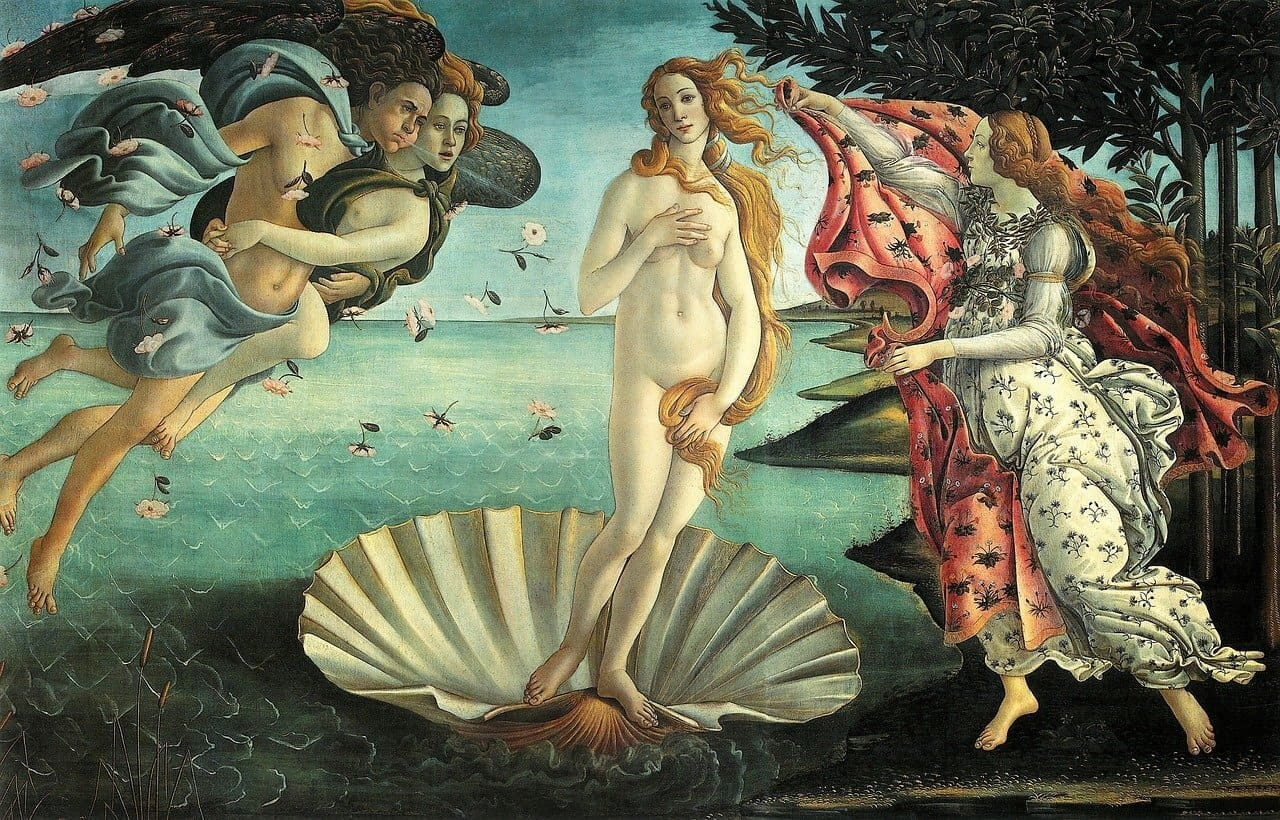
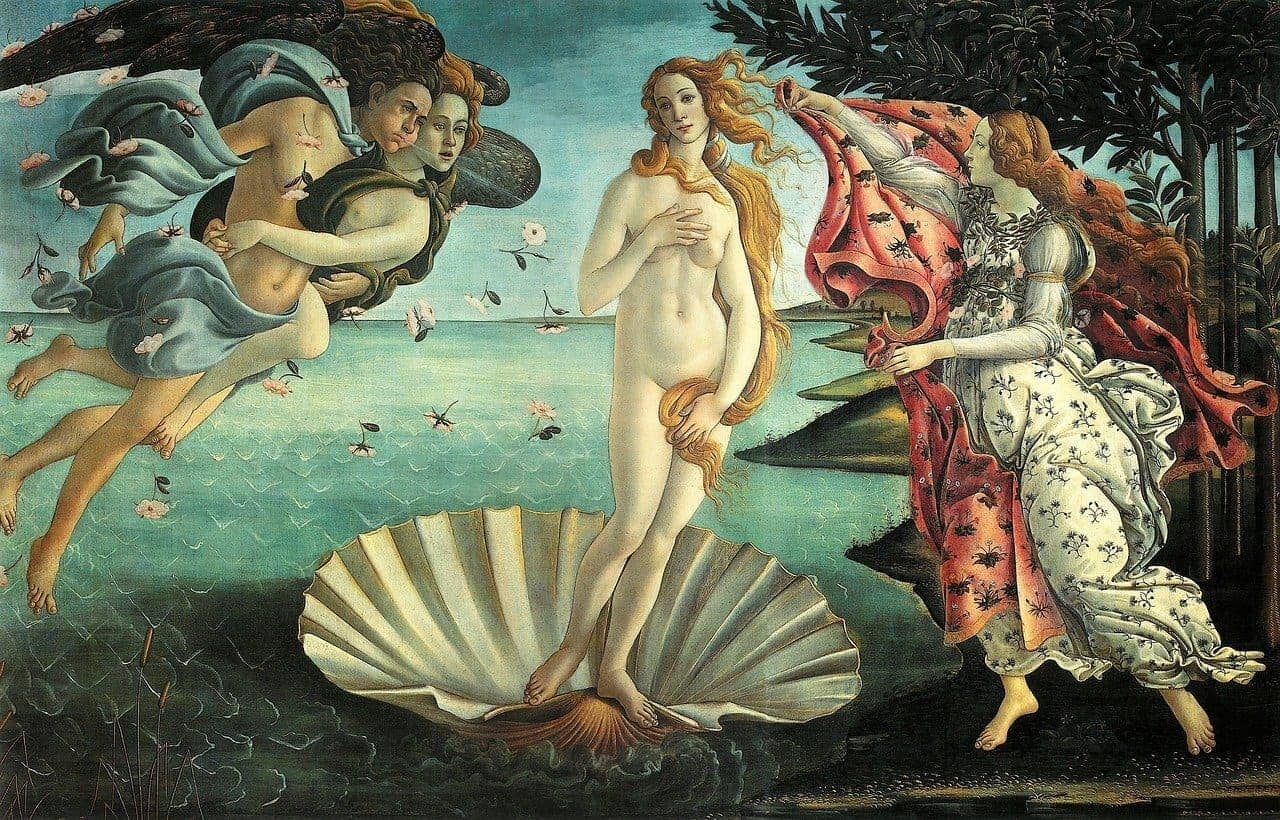
optimize oic size

Changed region(s): [[0.75, 0.3354, 0.7812, 0.3659]]

diff --git a/dist/index.html b/dist/index.html
@@ -1,1 +1,1 @@
-<!doctype html><html lang="ru"><head><meta charset="UTF-8"><title>The Famous - Онлайн-магазин картин</title><script defer="defer" src="index.77ed14f8b0b4f06805bc.js"></script><link href="main.110bc8028d30c93a0346.css" rel="stylesheet"></head><body class="page"><header class="page__header"><div class="wrapper"><div class="header"><nav class="header__navigation navigation"><a class="navigation__link" href="/"><img class="navigation__logo logo" src="assets/logo.2dc733fb.svg" alt="logo"></a><ul class="navigation__menu menu"><li class="menu__item"><a class="menu__link" href="/">Каталог</a></li><li class="menu__item"><a class="menu__link" href="/">Доставка</a></li><li class="menu__item"><a class="menu__link" href="/">Оплата</a></li><li class="menu__item"><a class="menu__link" href="/">Контакты</a></li><li class="menu__item"><a class="menu__link" href="/">О галерее</a></li></ul></nav><form class="header__search search" action=""><label class="search__label visually-hidden" for="search"></label> <input class="search__input" name="search" id="search" type="search" placeholder="Поиск по названию картины"> <button class="search__button button" type="submit">Найти</button></form><button type="button" class="navigation__toggle-button" aria-label="Открыть меню навигации"><span class="navigation__toggle toggle"></span></button></div></div></header><main class="page__content"><div class="wrapper"><section class="catalog"><h1 class="catalog__title">Картины эпохи Возрождения</h1><ul class="catalog__list"><li class="catalog__item"><article class="product-card"><div class="product-card__inner"><figure class="product-card__info"><a class="product-card__image-wrapper" href="/"><img class="product-card__image" src="assets/venera.7dc96b26.jpg" width="280" height="160" loading="lazy" alt="Картина Рождение Венеры"></a><h2 class="product-card__title"><a class="product-card__title-link" href="/">«Рождение Венеры»<br>Сандро Боттичелли</a></h2></figure><footer class="product-card__actions"><div class="product-card__prices"><del class="product-card__old-price price--old">2 000 000 $</del> <ins class="product-card__new-price price">1 000 000 $</ins></div><button class="product-card__buy-button button" type="button" data-buy-button='{ "id": 1 }'><svg class="buy-button-icon" width="16" height="13" viewBox="0 0 16 13" fill="none" xmlns="http://www.w3.org/2000/svg"><path d="M14.5315 1.80937L5.63341 11.237L1.34814 7.19237" stroke="#F4F6F9" stroke-width="2" stroke-linecap="round" stroke-linejoin="round"/></svg> <span class="product-card__buy-button-text button-text">Купить</span></button></footer></div></article></li><li class="catalog__item"><article class="product-card"><div class="product-card__inner"><figure class="product-card__info"><a class="product-card__image-wrapper" href="/"><img class="product-card__image" src="assets/lords-supper.aca52fca.jpg" width="280" height="160" loading="lazy" alt="Картина Тайная вечеря"></a><h2 class="product-card__title"><a class="product-card__title-link" href="/">«Тайная вечеря»<br>Леонардо да Винчи</a></h2></figure><footer class="product-card__actions"><div class="product-card__prices"><ins class="product-card__new-price price">3 000 000 $</ins></div><button class="product-card__buy-button button" type="button" data-buy-button='{ "id": 1 }'><svg class="buy-button-icon" width="16" height="13" viewBox="0 0 16 13" fill="none" xmlns="http://www.w3.org/2000/svg"><path d="M14.5315 1.80937L5.63341 11.237L1.34814 7.19237" stroke="#F4F6F9" stroke-width="2" stroke-linecap="round" stroke-linejoin="round"/></svg> <span class="product-card__buy-button-text button-text">Купить</span></button></footer></div></article></li><li class="catalog__item"><article class="product-card"><div class="product-card__inner"><figure class="product-card__info"><a class="product-card__image-wrapper" href="/"><img class="product-card__image" src="assets/adam-creation.b629db9d.jpg" width="280" height="160" loading="lazy" alt="Картина Рождение Венеры"></a><h2 class="product-card__title"><a class="product-card__title-link" href="/">«Сотворение Адама»<br>Микеланджело</a></h2></figure><footer class="product-card__actions"><div class="product-card__prices"><del class="product-card__old-price price--old">6 000 000 $</del> <ins class="product-card__new-price price">5 000 000 $</ins></div><button class="product-card__buy-button button" type="button" data-buy-button='{ "id": 1 }'><svg class="buy-button-icon" width="16" height="13" viewBox="0 0 16 13" fill="none" xmlns="http://www.w3.org/2000/svg"><path d="M14.5315 1.80937L5.63341 11.237L1.34814 7.19237" stroke="#F4F6F9" stroke-width="2" stroke-linecap="round" stroke-linejoin="round"/></svg> <span class="product-card__buy-button-text button-text">Купить</span></button></footer></div></article></li><li class="catalog__item"><article class="product-card product-card--inactive"><div class="product-card__inner"><figure class="product-card__info"><a class="product-card__image-wrapper" href="/"><img class="product-card__image" src="assets/anathomy.b116d71e.jpg" width="280" height="160" loading="lazy" alt="Картина Рождение Венеры"></a><h2 class="product-card__title"><a class="product-card__title-link" href="/">«Урок анатомии»<br>Рембрандт</a></h2></figure><footer class="product-card__actions"><p class="product-card__alert text-sold">Продана на аукционе</p></footer></div></article></li></ul></section></div></main><footer class="page__footer"><div class="wrapper"><div class="footer"><div class="footer__navigation navigation"><a class="navigation__link" href="/"><img class="navigation__logo logo" src="assets/logo.2dc733fb.svg" alt="logo"></a><ul class="navigation__menu menu"><li class="menu__item"><a class="menu__link" href="/">Каталог</a></li><li class="menu__item"><a class="menu__link" href="/">Доставка</a></li><li class="menu__item"><a class="menu__link" href="/">Оплата</a></li><li class="menu__item"><a class="menu__link" href="/">Контакты</a></li><li class="menu__item"><a class="menu__link" href="/">О галерее</a></li></ul></div><address class="footer__contacts contacts"><a class="contacts__phone" href="tel:+74955555555">+7 (495) 555-55-55</a><p class="contacts__address">г. Москва, ул. Расплетина, 24</p></address></div></div></footer></body></html>
+<!doctype html><html lang="ru"><head><meta charset="UTF-8"><title>The Famous - Онлайн-магазин картин</title><script defer="defer" src="index.77ed14f8b0b4f06805bc.js"></script><link href="main.110bc8028d30c93a0346.css" rel="stylesheet"></head><body class="page"><header class="page__header"><div class="wrapper"><div class="header"><nav class="header__navigation navigation"><a class="navigation__link" href="/"><img class="navigation__logo logo" src="assets/logo.2dc733fb.svg" alt="logo"></a><ul class="navigation__menu menu"><li class="menu__item"><a class="menu__link" href="/">Каталог</a></li><li class="menu__item"><a class="menu__link" href="/">Доставка</a></li><li class="menu__item"><a class="menu__link" href="/">Оплата</a></li><li class="menu__item"><a class="menu__link" href="/">Контакты</a></li><li class="menu__item"><a class="menu__link" href="/">О галерее</a></li></ul></nav><form class="header__search search" action=""><label class="search__label visually-hidden" for="search"></label> <input class="search__input" name="search" id="search" type="search" placeholder="Поиск по названию картины"> <button class="search__button button" type="submit">Найти</button></form><button type="button" class="navigation__toggle-button" aria-label="Открыть меню навигации"><span class="navigation__toggle toggle"></span></button></div></div></header><main class="page__content"><div class="wrapper"><section class="catalog"><h1 class="catalog__title">Картины эпохи Возрождения</h1><ul class="catalog__list"><li class="catalog__item"><article class="product-card"><div class="product-card__inner"><figure class="product-card__info"><a class="product-card__image-wrapper" href="/"><img class="product-card__image" src="assets/venera.a5baa3d2.jpg" width="280" height="160" loading="lazy" alt="Картина Рождение Венеры"></a><h2 class="product-card__title"><a class="product-card__title-link" href="/">«Рождение Венеры»<br>Сандро Боттичелли</a></h2></figure><footer class="product-card__actions"><div class="product-card__prices"><del class="product-card__old-price price--old">2 000 000 $</del> <ins class="product-card__new-price price">1 000 000 $</ins></div><button class="product-card__buy-button button" type="button" data-buy-button='{ "id": 1 }'><svg class="buy-button-icon" width="16" height="13" viewBox="0 0 16 13" fill="none" xmlns="http://www.w3.org/2000/svg"><path d="M14.5315 1.80937L5.63341 11.237L1.34814 7.19237" stroke="#F4F6F9" stroke-width="2" stroke-linecap="round" stroke-linejoin="round"/></svg> <span class="product-card__buy-button-text button-text">Купить</span></button></footer></div></article></li><li class="catalog__item"><article class="product-card"><div class="product-card__inner"><figure class="product-card__info"><a class="product-card__image-wrapper" href="/"><img class="product-card__image" src="assets/lords-supper.48d9ddb9.jpg" width="280" height="160" loading="lazy" alt="Картина Тайная вечеря"></a><h2 class="product-card__title"><a class="product-card__title-link" href="/">«Тайная вечеря»<br>Леонардо да Винчи</a></h2></figure><footer class="product-card__actions"><div class="product-card__prices"><ins class="product-card__new-price price">3 000 000 $</ins></div><button class="product-card__buy-button button" type="button" data-buy-button='{ "id": 1 }'><svg class="buy-button-icon" width="16" height="13" viewBox="0 0 16 13" fill="none" xmlns="http://www.w3.org/2000/svg"><path d="M14.5315 1.80937L5.63341 11.237L1.34814 7.19237" stroke="#F4F6F9" stroke-width="2" stroke-linecap="round" stroke-linejoin="round"/></svg> <span class="product-card__buy-button-text button-text">Купить</span></button></footer></div></article></li><li class="catalog__item"><article class="product-card"><div class="product-card__inner"><figure class="product-card__info"><a class="product-card__image-wrapper" href="/"><img class="product-card__image" src="assets/adam-creation.61bc87e4.jpg" width="280" height="160" loading="lazy" alt="Картина Рождение Венеры"></a><h2 class="product-card__title"><a class="product-card__title-link" href="/">«Сотворение Адама»<br>Микеланджело</a></h2></figure><footer class="product-card__actions"><div class="product-card__prices"><del class="product-card__old-price price--old">6 000 000 $</del> <ins class="product-card__new-price price">5 000 000 $</ins></div><button class="product-card__buy-button button" type="button" data-buy-button='{ "id": 1 }'><svg class="buy-button-icon" width="16" height="13" viewBox="0 0 16 13" fill="none" xmlns="http://www.w3.org/2000/svg"><path d="M14.5315 1.80937L5.63341 11.237L1.34814 7.19237" stroke="#F4F6F9" stroke-width="2" stroke-linecap="round" stroke-linejoin="round"/></svg> <span class="product-card__buy-button-text button-text">Купить</span></button></footer></div></article></li><li class="catalog__item"><article class="product-card product-card--inactive"><div class="product-card__inner"><figure class="product-card__info"><a class="product-card__image-wrapper" href="/"><img class="product-card__image" src="assets/anathomy.44653671.jpg" width="280" height="160" loading="lazy" alt="Картина Рождение Венеры"></a><h2 class="product-card__title"><a class="product-card__title-link" href="/">«Урок анатомии»<br>Рембрандт</a></h2></figure><footer class="product-card__actions"><p class="product-card__alert text-sold">Продана на аукционе</p></footer></div></article></li></ul></section></div></main><footer class="page__footer"><div class="wrapper"><div class="footer"><div class="footer__navigation navigation"><a class="navigation__link" href="/"><img class="navigation__logo logo" src="assets/logo.2dc733fb.svg" alt="logo"></a><ul class="navigation__menu menu"><li class="menu__item"><a class="menu__link" href="/">Каталог</a></li><li class="menu__item"><a class="menu__link" href="/">Доставка</a></li><li class="menu__item"><a class="menu__link" href="/">Оплата</a></li><li class="menu__item"><a class="menu__link" href="/">Контакты</a></li><li class="menu__item"><a class="menu__link" href="/">О галерее</a></li></ul></div><address class="footer__contacts contacts"><a class="contacts__phone" href="tel:+74955555555">+7 (495) 555-55-55</a><p class="contacts__address">г. Москва, ул. Расплетина, 24</p></address></div></div></footer></body></html>
